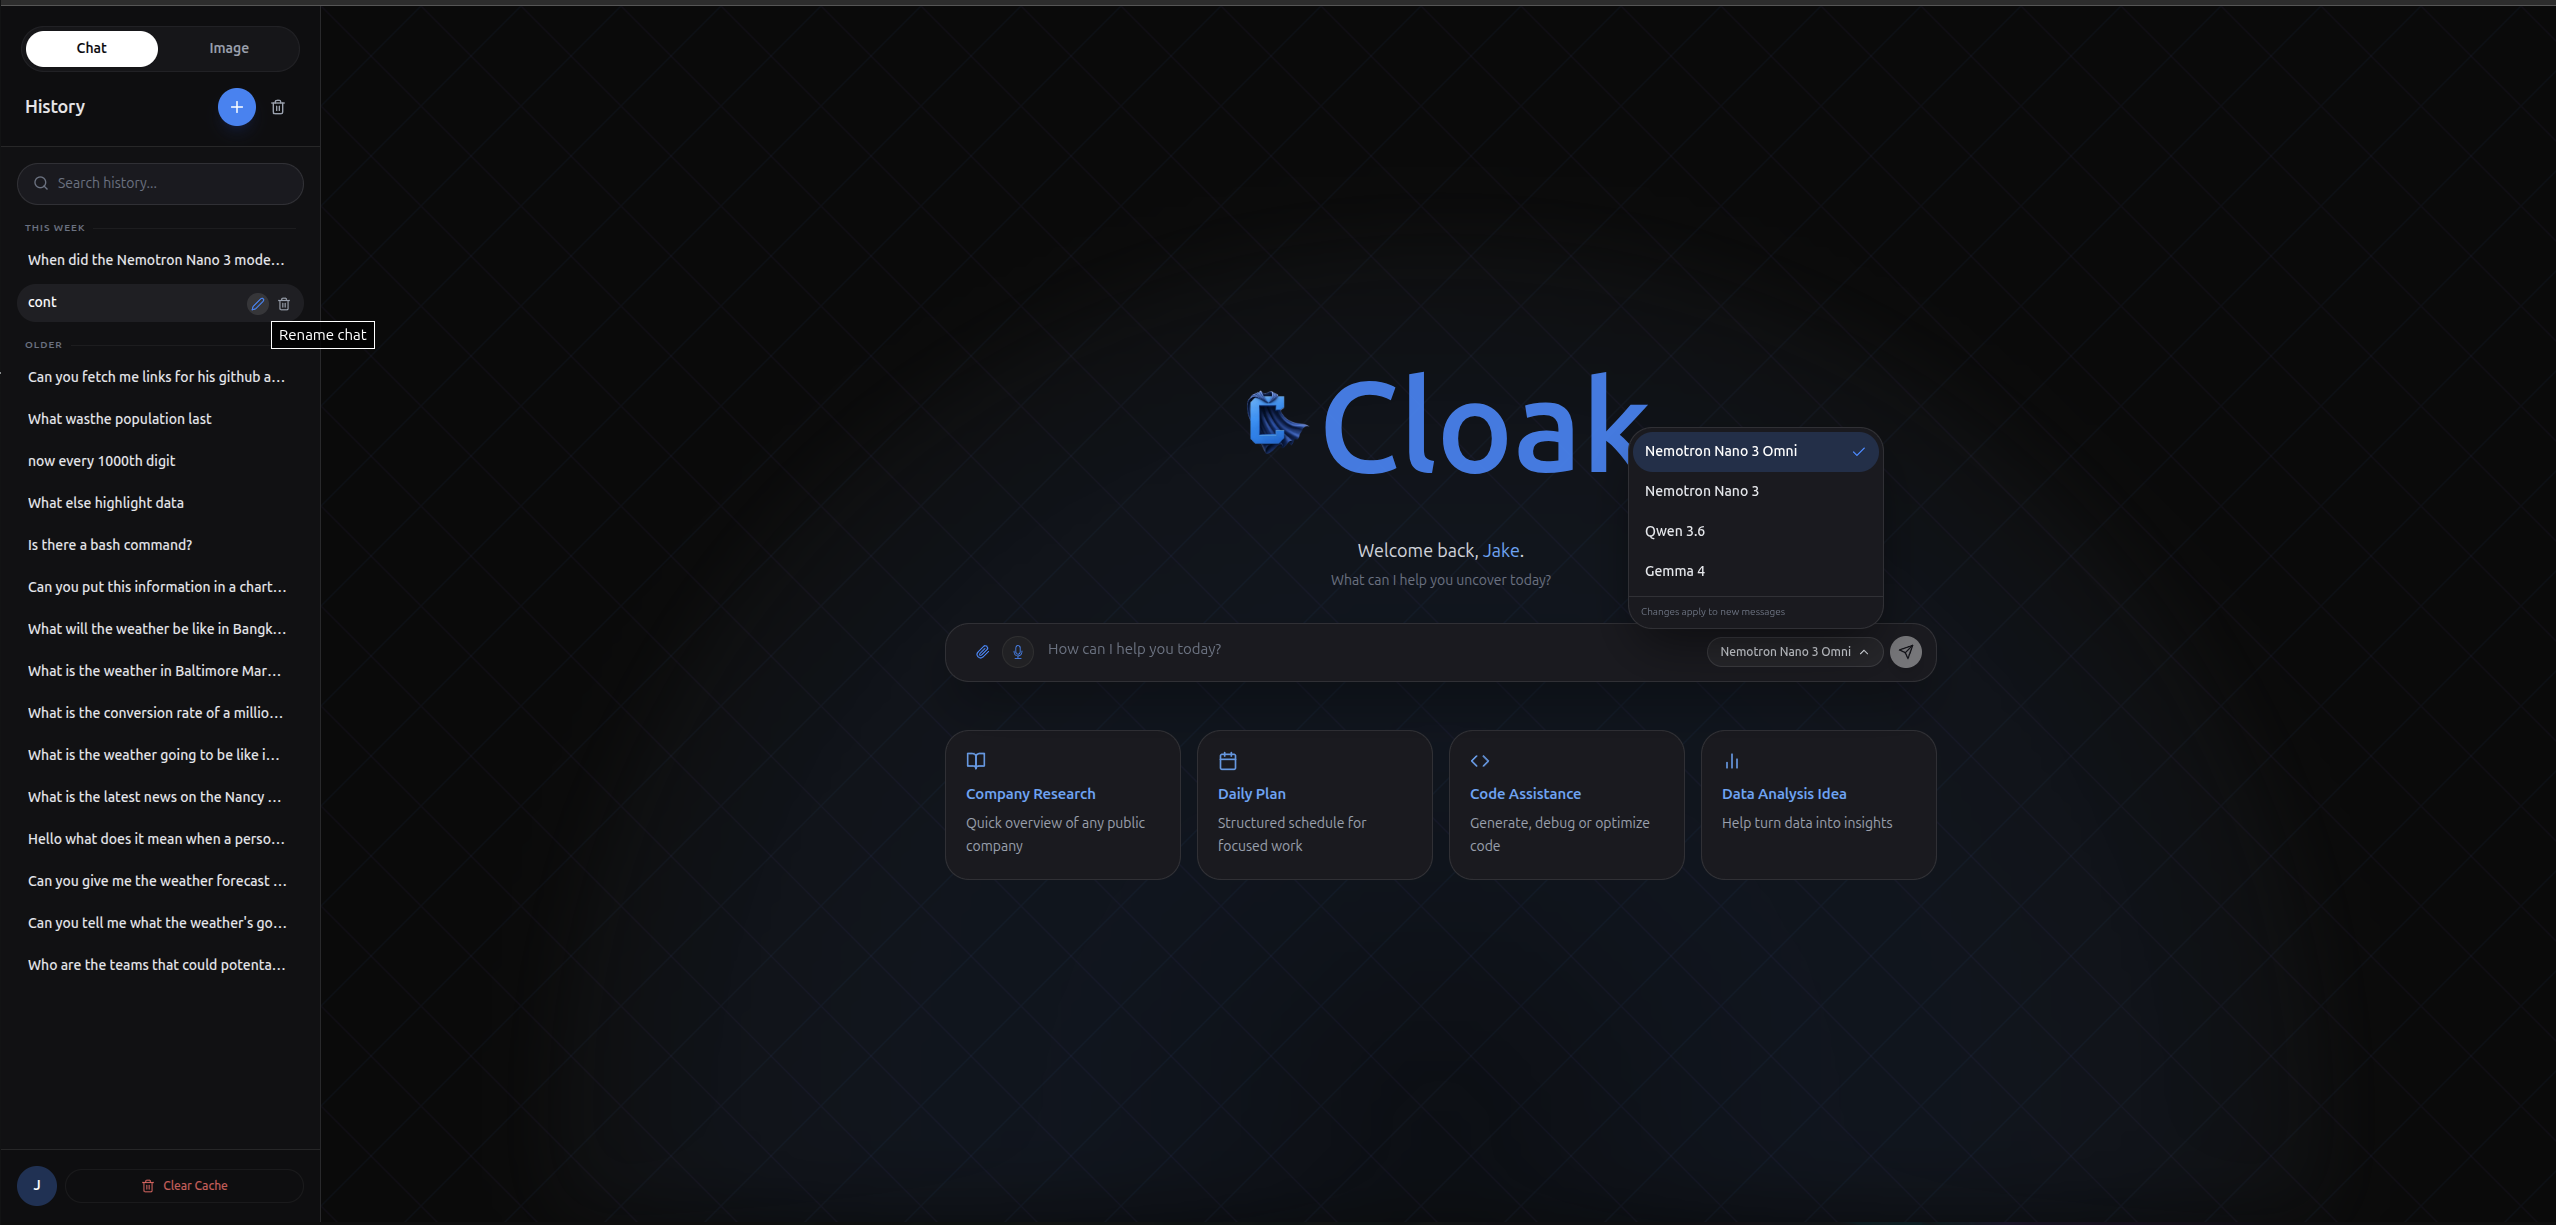
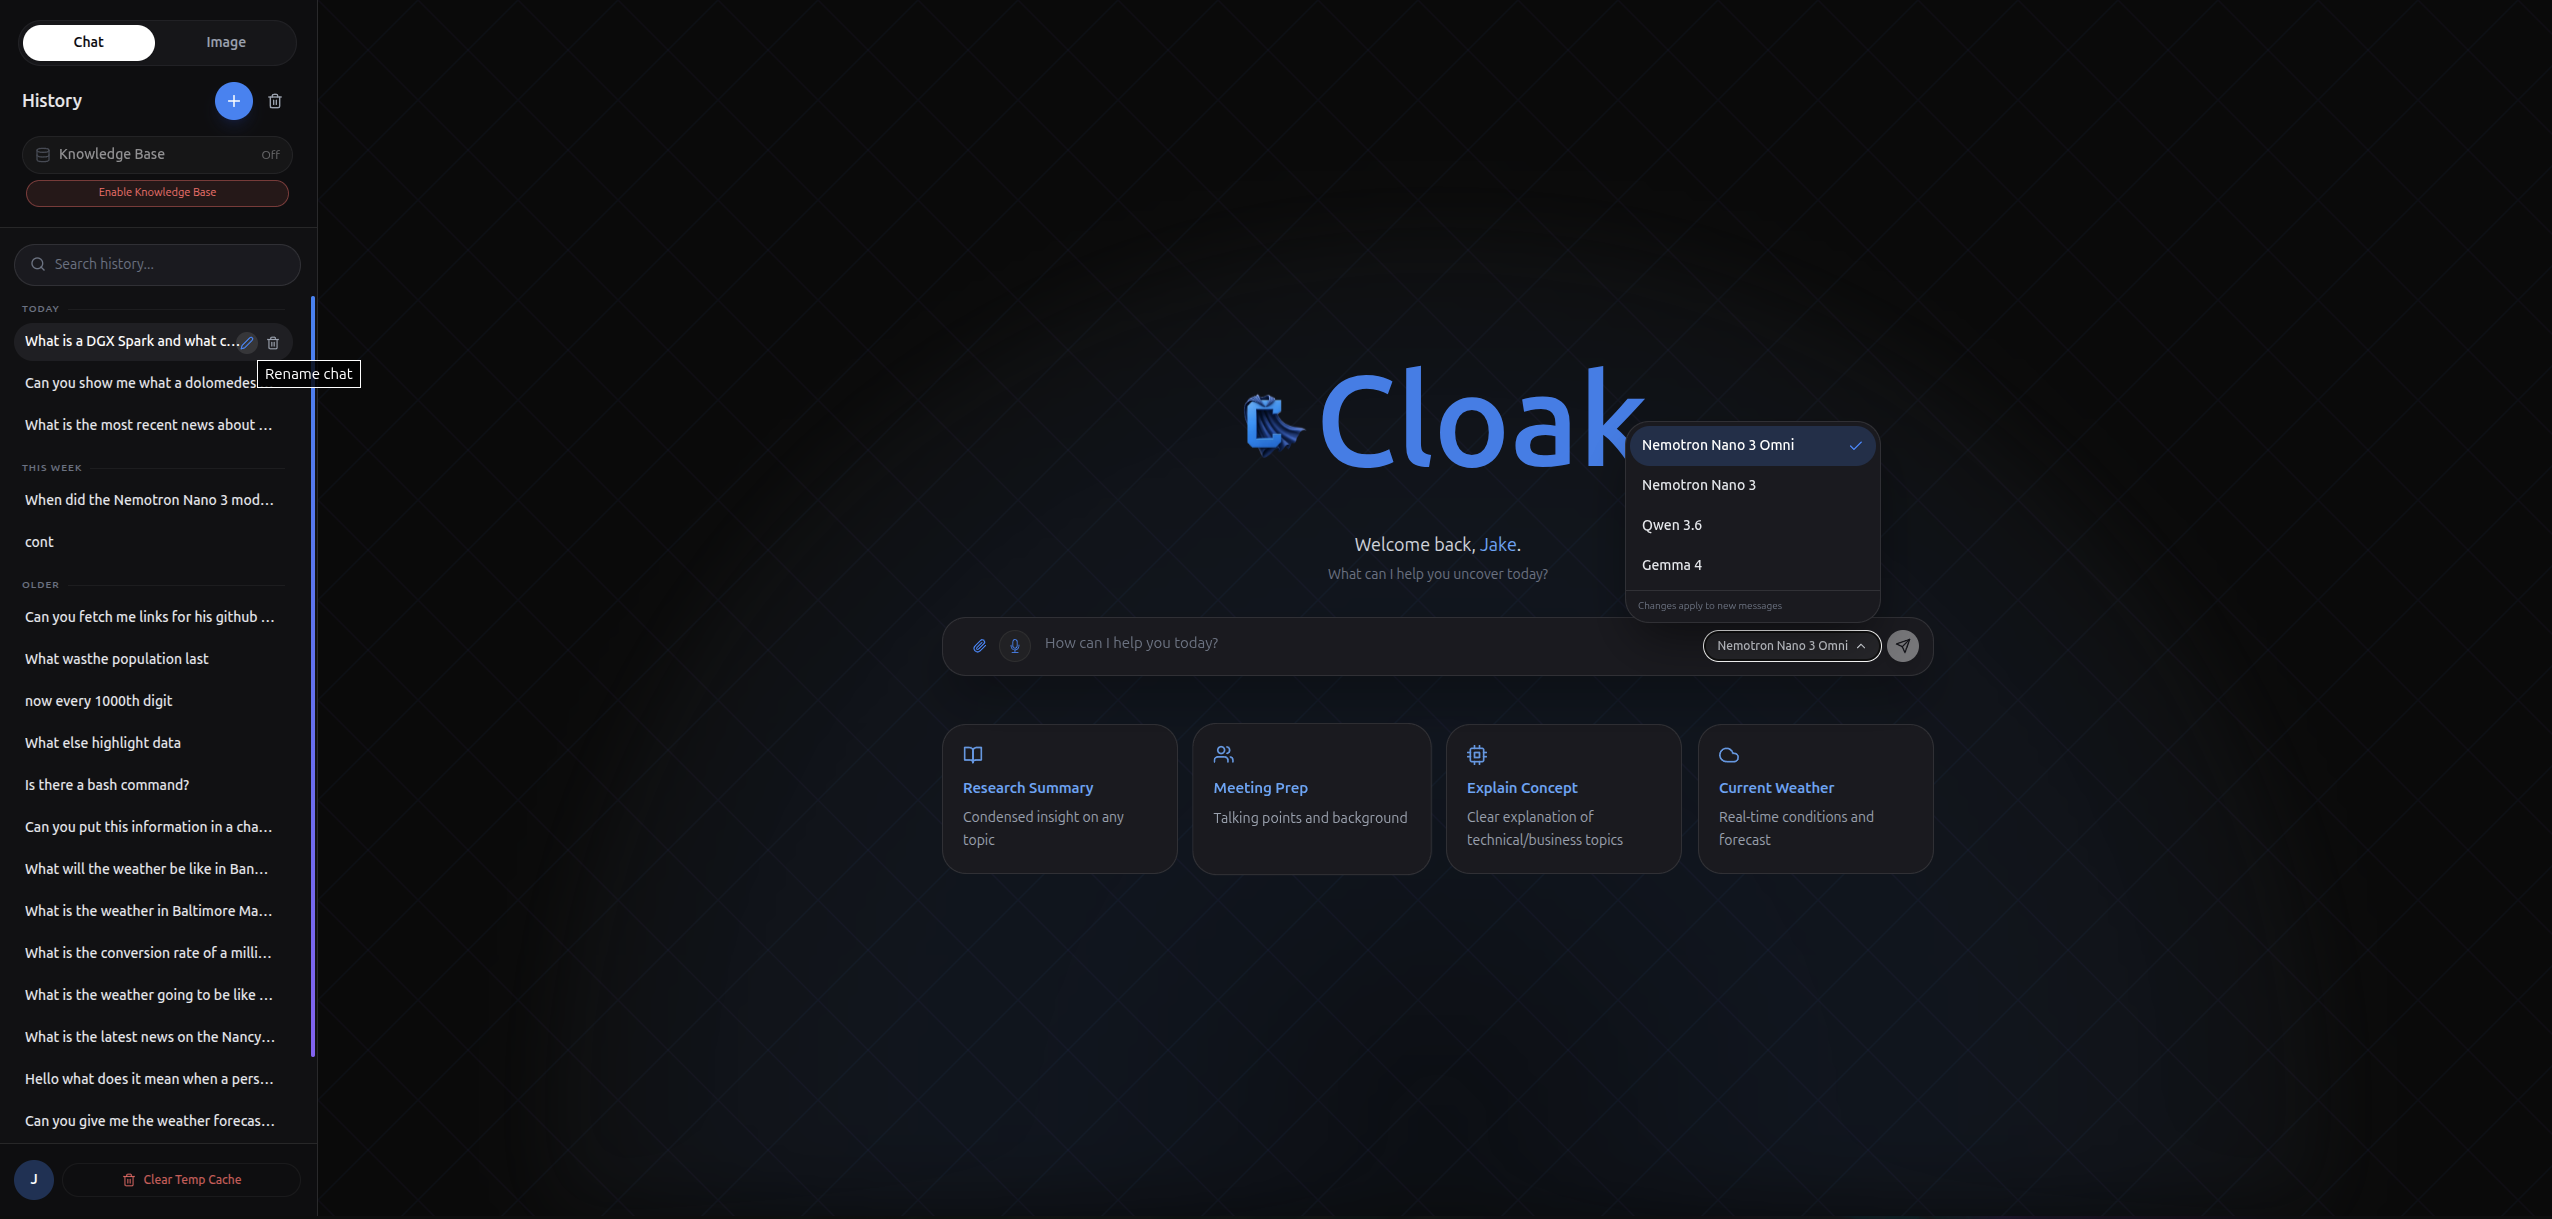
added more images to Cloak and updated description and tags to highlight recent changes

diff --git a/lib/projects.ts b/lib/projects.ts
@@ -35,31 +35,35 @@ export const allProjects: Project[] = [
   {
     id: 1,
     title: "Cloak AI 2.0",
-    description: "The second iteration of Cloak AI, a privacy-first, locally-hosted AI agent with real tool use, rich transparency, and serious multimodal capabilities. Runs entirely on consumer hardware via Ollama with dynamic model switching, high-quality document understanding, satellite imagery analysis, and voice input—never sending data off-device.",
-    longDescription: "Cloak AI is a fully local, privacy-first AI agent built for real work. It runs on Ollama with dynamic switching across four strong models (Nemotron Nano 3 Omni as default) and features genuine tool calling with live transparency—every reasoning step and tool invocation is visible in real time through the Agent Activity panel, while sources are cleanly separated into a dedicated sidebar.\n\n" +
-  "The backend is where it gets interesting: a FastAPI service powering advanced local capabilities including Whisper-large-v3-turbo for voice transcription, NVIDIA's Nemotron Parse model for high-accuracy PDF and image document extraction, and a fine-tuned SAM3 model for both general image segmentation and satellite imagery analysis via Google Earth Engine (Sentinel-2 and Landsat). Weather forecasting uses Earth2Studio with the FuXi model plus animated GFS visualizations. All of this runs locally with no data leaving the machine.",
+    description: "The second iteration of Cloak AI, a privacy-first, fully local AI agent with genuine tool use, mature RAG, and strong multimodal capabilities. Runs entirely on consumer hardware via Ollama with dynamic model switching, real-time agent transparency, named knowledge bases, and the ability to retrieve and display web images inline.",
+    longDescription: "Cloak AI 2.0 is a fully local, privacy-first AI workspace built for real productivity. It runs on Ollama with seamless dynamic model switching and features reliable tool calling with exceptional transparency — every reasoning step and tool invocation is visible in real time through the Agent Activity sidebar, while sources appear in a dedicated panel.\n\n" +
+    "The system includes a proper RAG implementation using ChromaDB with bge-m3 embeddings and named collections that users can create, switch between, and manage directly from the UI. Documents can be added as one-shot context or ingested into persistent knowledge bases.\n\n" +
+    "Multimodal input is first-class: users can attach up to 5 images and documents in a single message (with drag & drop support), and the agent can reference previous images across turns using explicit labels. The agent can also search the web for images and display them inline in responses.\n\n" +
+    "Additional local capabilities include high-quality document parsing with NVIDIA Nemotron Parse, voice input via Whisper Large v3 Turbo, satellite and general image segmentation with a fine-tuned SAM3 model (integrated with Google Earth Engine), and advanced weather forecasting using Earth2Studio + FuXi with animated GFS visualizations. Everything runs locally with zero data leaving the device.",
     images: [
       { src: "/projectImages/Cloak2.0/Cloak_Welcome.png", caption: "Main welcome screen featuring the dynamic model selector with support for Nemotron Nano 3 Omni and other local models." },
+      { src: "/projectImages/Cloak2.0/Inline_Agent_Activity.png", caption: "Inline agent reasoning steps shown directly inside a chat message during response generation." },
+      { src: "/projectImages/Cloak2.0/Inline_Image.png", caption: "Inline image display within chat messages." },
+      { src: "/projectImages/Cloak2.0/Knowledge_Base_Manager.png", caption: "Knowledge Base Manager interface for creating and managing named knowledge bases." },
+      { src: "/projectImages/Cloak2.0/Attachments.png", caption: "Attachments panel for managing files and images in chat messages." },
       { src: "/projectImages/Cloak2.0/Chat_Interface.png", caption: "Full chat interface showing a detailed AI response with the Agent Activity button and Sources panel enabled." },
       { src: "/projectImages/Cloak2.0/Agent_Activity.png", caption: "Agent Activity sidebar expanded, displaying the step-by-step reasoning trace and tool calls in real time." },
-      { src: "/projectImages/Cloak2.0/Inline_Agent_Activity.png", caption: "Inline agent reasoning steps shown directly inside a chat message during response generation." },
+
     ],
     category: "AI/ML",
-    subCategory: ["Agentic", "Multimodal", "Developer Tools"] ,
+    subCategory: ["Agentic", "Multimodal", "Developer Tools", "RAG & Retrieval"],
     technologies: [
-      "Python",
-      "FastAPI",
-      "React 19",
-      "TypeScript",
+      "React 19 + TypeScript",
+      "Python + FastAPI",
       "Ollama",
       "Nemotron Nano 3 Omni",
       "NVIDIA Nemotron Parse",
       "Whisper Large v3 Turbo",
       "SAM3 (fine-tuned)",
       "Earth2Studio + FuXi",
-      "Google Earth Engine",
-      "Yahoo Finance",
+      "ChromaDB + bge-m3 (RAG)",
       "Playwright + Trafilatura",
+      "Google Earth Engine",
       "Tailwind CSS",
     ],
     github: "https://github.com/JakeFurtaw",
@@ -69,11 +73,11 @@ export const allProjects: Project[] = [
     },
     story: {
       role: "Sole developer and system architect for the entire platform.",
-      context: "I was happy with the first iteration of Cloak AI but I knew there was room for improvement. This version was a complete rewrite to integrate the new Omni model along with dynamic model switching to let the user choose which model they want to use, add more tools and upgrade current tool functionality, and significantly modernize the UI/UX.",
-      challenges: "Integrating the new Omni model required significant backend modifications. The new and improved web search tool was a major undertaking, and getting reliable tool calling with live transparency working smoothly was also difficult.",
-      approach: "Using the skeleton of the original software I did a full frontend overhaul, and major backend renovations. The new version integrates Dynamic model switching adding more model options, a new an improved web search tool, live agent reasoning outputs, agent activity button for agent timeline. ",
-      learnings: "LLM post training has come a long way in the past few months. When I revisited Cloak just a few months after \"finishing\" the first version, it became aparent the tool needed a total overhaul to reach its full potential.",
-      impact: "Became a core part of my daily workflow and proved that high-quality, private AI agents are very achievable today.",
+      context: "After shipping the first version of Cloak AI, I quickly realized the rapid progress in local models and tooling meant the project needed a full evolution rather than incremental updates. The goal for 2.0 was to build something I would actually use daily — with real tool reliability, proper long-term memory via RAG, and excellent observability.",
+      challenges: "Making tool calling reliable and transparent with smaller local models was difficult. Building a usable named-collection RAG system (with proper UI) took significant iteration. Adding first-class multimodal input (mixed images + documents, drag & drop, and multi-turn image referencing) while keeping the experience clean required careful state and prompt engineering.",
+      approach: "I kept the solid FastAPI + Ollama foundation but did a major frontend and capability overhaul. Key additions include dynamic model switching, a full RAG system with named collections and management UI, advanced multimodal input (5 attachments, drag & drop, explicit multi-turn image references), the ability for the agent to search and display web images inline, and significantly improved Agent Activity visualization for live reasoning and tool traces.",
+      learnings: "Local models have improved dramatically in tool use and instruction following over just a few months. The biggest leap in user trust didn't come from model size — it came from radical transparency (showing every step) and giving users real control over memory (named RAG collections).",
+      impact: "Cloak AI 2.0 became my primary daily AI tool. It proved that a high-quality, private, multimodal agent with useful tool use and memory is not only possible today on consumer hardware — it's genuinely pleasant to use.",
     },
   },
   